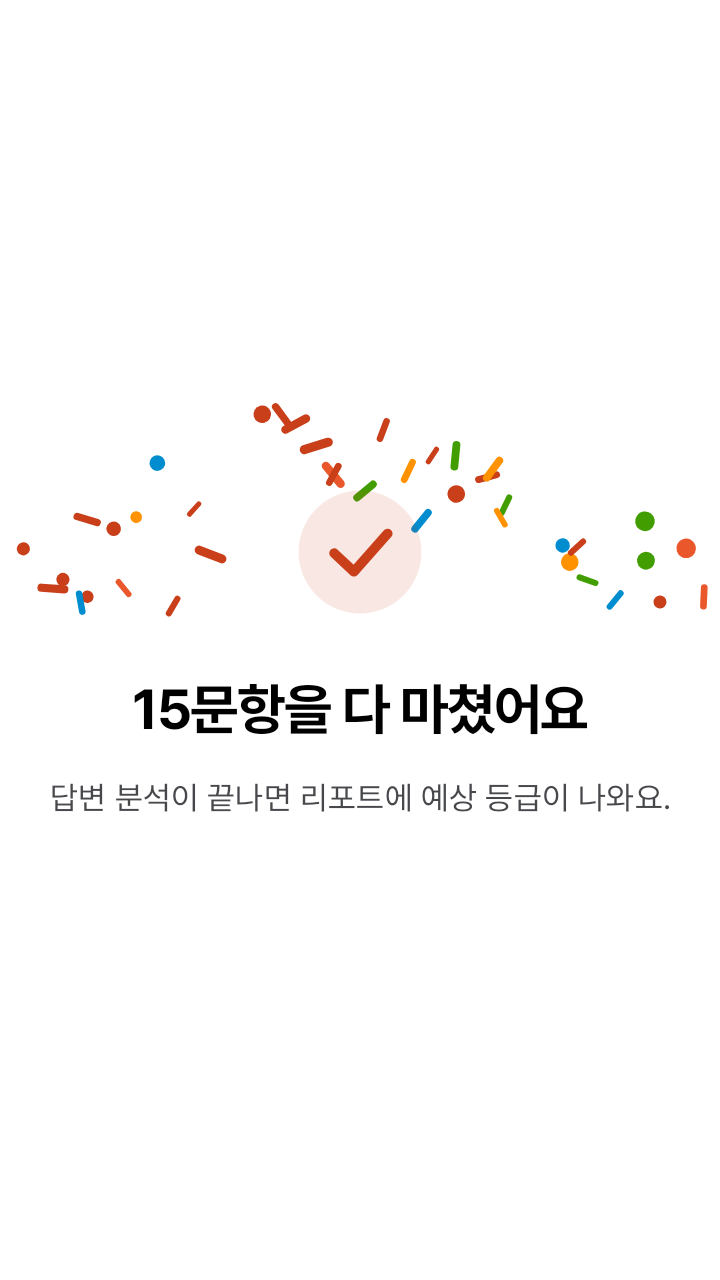
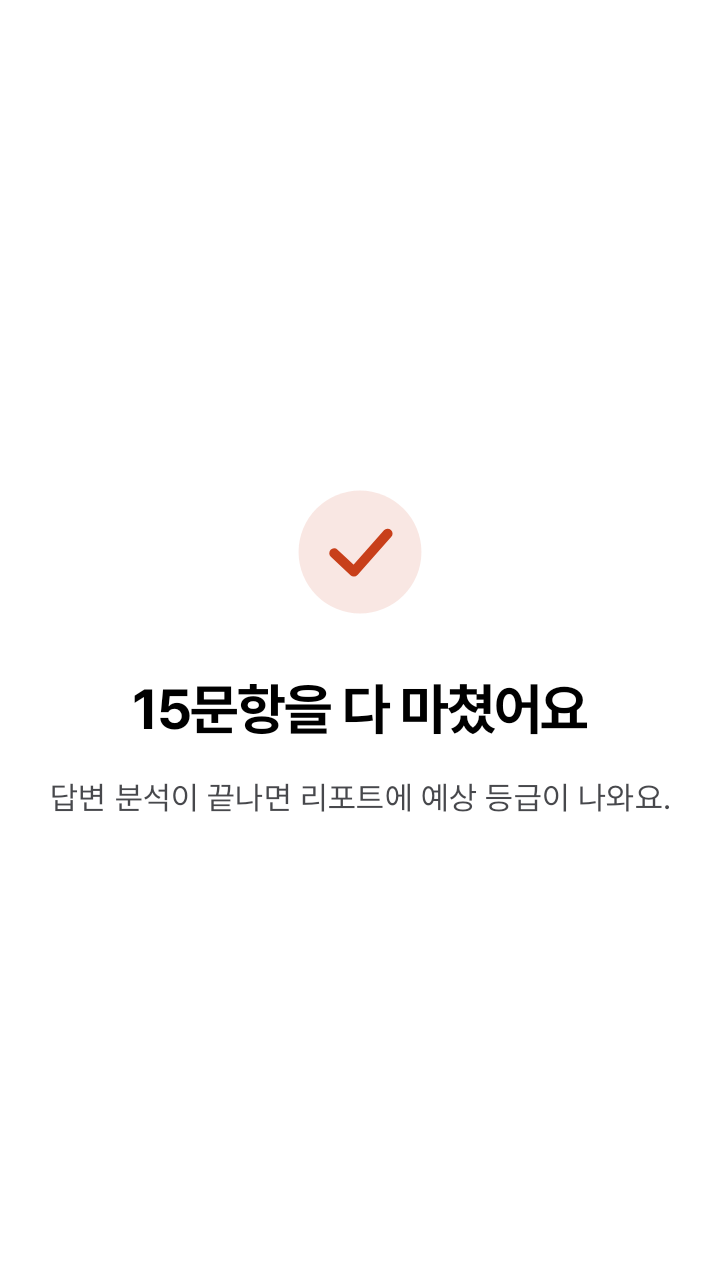
[motion-celebrate] 동작 줄이기면 축하 조각을 그리지 않고, 목록에 새로 들어온 줄만 나타나게 했다 (#158)
축하 끝 장면은 빈 영역이라 동작 줄이기에서 퍼진 장면으로 멈추면 등급 눈금과 점수를 덮은 채 남았다. 진동만 낸다.
축하 기준 이미지가 터지는 중 장면인 이유를 ui-quality 2절 스크린샷 규칙의 예외로 적었다.

diff --git a/ui/design/src/androidHostTest/kotlin/io/github/nosorae/aiopic/ui/design/MotionTest.kt b/ui/design/src/androidHostTest/kotlin/io/github/nosorae/aiopic/ui/design/MotionTest.kt
@@ -13,6 +13,7 @@ import androidx.compose.foundation.layout.padding
 import androidx.compose.foundation.layout.size
 import androidx.compose.foundation.layout.width
 import androidx.compose.foundation.lazy.LazyColumn
+import androidx.compose.foundation.lazy.items
 import androidx.compose.runtime.Composable
 import androidx.compose.runtime.CompositionLocalProvider
 import androidx.compose.runtime.getValue
@@ -254,9 +255,17 @@ class MotionTest {
 
     @Test fun celebrationSmall() = assertBursts(MontageCelebrationSize.Small)
 
-    @Test fun celebrationLarge_reduceMotion() = assertStill { MontageCelebration(MontageCelebrationSize.Large, Modifier.size(148.dp)) }
+    /** 동작 줄이기면 축하는 끝 장면(빈 영역) 그대로다. 라이트, 다크 배경 두 색 말고는 아무것도 그려지지 않는다. */
+    private fun assertCelebrationEmpty(size: MontageCelebrationSize) {
+        assertStill { MontageCelebration(size, Modifier.size(148.dp)) }
+        val shot = frame()
+        val pixels = IntArray(shot.width * shot.height).also { shot.getPixels(it, 0, shot.width, 0, 0, shot.width, shot.height) }
+        assertEquals("동작 줄이기인데 조각이 남는다", 2, pixels.toSet().size)
+    }
 
-    @Test fun celebrationSmall_reduceMotion() = assertStill { MontageCelebration(MontageCelebrationSize.Small, Modifier.size(148.dp)) }
+    @Test fun celebrationLarge_reduceMotion() = assertCelebrationEmpty(MontageCelebrationSize.Large)
+
+    @Test fun celebrationSmall_reduceMotion() = assertCelebrationEmpty(MontageCelebrationSize.Small)
 
     @Test
     fun `큰 축하는 축하 진동, 작은 축하는 성공 진동을 한 번 내고 같은 키로 다시 그려도 내지 않는다`() {
@@ -336,6 +345,31 @@ class MotionTest {
         var struck by mutableStateOf(false)
         show(reduceMotion) { MontageListCell(title = "I went to the park yesterday with my friends.", struck = struck) }
         assertChange({ struck = true }, check)
+    }
+
+    /** 목록에 새로 들어온 줄만 짧게 나타나고 아래 줄은 미끄러져 내려간다. 처음 있던 줄은 등장하지 않는다. */
+    @Test
+    fun listItemAppears() = assertListItems(reduceMotion = false) { start, moving, end ->
+        assertFalse("새 줄이 들어왔는데 그대로다", moving.sameAs(start))
+        assertFalse("새 줄이 움직이지 않고 바로 끝이다", moving.sameAs(end))
+    }
+
+    @Test
+    fun listItemAppears_reduceMotion() = assertListItems(reduceMotion = true) { _, moving, end ->
+        assertTrue("동작 줄이기인데 새 줄이 움직인다", moving.sameAs(end))
+    }
+
+    private fun assertListItems(reduceMotion: Boolean, check: (Bitmap, Bitmap, Bitmap) -> Unit) {
+        var rows by mutableStateOf(listOf("2회차", "1회차"))
+        show(reduceMotion) {
+            LazyColumn(Modifier.height(180.dp)) {
+                items(rows, key = { it }) { MontageListCell(title = it, modifier = montageItemMotion()) }
+            }
+        }
+        val first = frame()
+        settle()
+        assertTrue("처음 있던 줄이 등장한다", first.sameAs(frame()))
+        assertChange({ rows = listOf("3회차") + rows }, check)
     }
 
     /** 듣기에서 답하기로 넘어간다. 피드백 단계까지 셋을 보인다. */

diff --git a/ui/design/src/commonMain/kotlin/io/github/nosorae/aiopic/ui/design/MontageCelebration.kt b/ui/design/src/commonMain/kotlin/io/github/nosorae/aiopic/ui/design/MontageCelebration.kt
@@ -24,7 +24,7 @@ enum class MontageCelebrationSize { Large, Small }
  * 축하할 일이 실제로 생겼을 때 한 번 터지는 조각. 크기는 [modifier] 로 정한 영역이고 조각은 그 가운데에서 터진다.
  * 큰 축하는 목소리 띠 같은 짧은 막대와 점 40개가 위로 터졌다가 떨어지며 사라진다(1.4초). 같은 때 축하 진동을 낸다.
  * 작은 축하는 불꽃 12개가 둥글게 한 번 퍼지고 사라진다(0.7초). 같은 때 성공 진동을 낸다.
- * 동작 줄이기면 조각이 퍼진 한 장면으로 멈춰 있고 진동은 그대로 낸다. 결과는 늘 옆의 체크나 문구가 전한다. 이 그림은 꾸밈이다.
+ * 동작 줄이기면 조각을 그리지 않고 진동만 낸다. 끝 장면이 빈 영역이라서다. 결과는 늘 옆의 체크나 문구가 전한다. 이 그림은 꾸밈이다.
  * [playOnceKey] 를 주면 그 키로 한 번 터진 뒤에는 다시 그려도 아무것도 그리지 않고 진동도 내지 않는다. 키에는 무엇의 축하인지를 넣는다.
  * [delayMillis] 뒤에 터진다. 다른 움직임(등급 구슬, 체크 그리기)이 멈춘 뒤에 터지게 할 때 쓴다.
  */
@@ -37,14 +37,14 @@ fun MontageCelebration(kind: MontageCelebrationSize, modifier: Modifier = Modifi
     val reduceMotion = MontageMotion.reduceMotion
     val large = kind == MontageCelebrationSize.Large
     val spec = MontageMotion.spec<Float>(if (large) LARGE_MILLIS else SMALL_MILLIS)
-    // 동작 줄이기면 조각이 가장 넓게 퍼진 때 멈춘다. 처음부터 끝 장면이면 아무것도 안 보여서다.
-    val progress = remember { Animatable(if (reduceMotion) STILL_AT else 0f) }
+    val progress = remember { Animatable(0f) }
     LaunchedEffect(Unit) {
         playOnceKey?.let(played::add)
         delay(delayMillis.toLong())
         haptics.play(if (large) HapticEffect.Celebrate else HapticEffect.Success)
         if (!reduceMotion) progress.animateTo(1f, spec)
     }
+    if (reduceMotion) return
     val palette = listOf(colors.foregroundBrandPrimary, colors.brandDecoration, colors.foregroundCautionaryPrimary, colors.foregroundAccentLightblue, colors.foregroundAccentLime)
     val pieces = remember(large) { if (large) confetti() else sparks() }
     Canvas(modifier) {
@@ -104,6 +104,5 @@ private fun sparks(): List<Piece> = List(12) { i ->
 
 private const val LARGE_MILLIS = 1_400
 private const val SMALL_MILLIS = 700
-private const val STILL_AT = 0.35f
 private const val SEED = 158
 private const val GRAVITY = 2.4f

diff --git a/ui/feature-home/src/commonMain/kotlin/io/github/nosorae/aiopic/ui/featurehome/HomeScreen.kt b/ui/feature-home/src/commonMain/kotlin/io/github/nosorae/aiopic/ui/featurehome/HomeScreen.kt
@@ -8,7 +8,11 @@ import androidx.compose.foundation.lazy.LazyColumn
 import androidx.compose.foundation.lazy.items
 import androidx.compose.material3.Text
 import androidx.compose.runtime.Composable
+import androidx.compose.runtime.LaunchedEffect
 import androidx.compose.runtime.getValue
+import androidx.compose.runtime.mutableStateOf
+import androidx.compose.runtime.remember
+import androidx.compose.runtime.setValue
 import androidx.compose.ui.Modifier
 import androidx.compose.ui.platform.testTag
 import androidx.compose.ui.tooling.preview.Preview
@@ -22,6 +26,7 @@ import io.github.nosorae.aiopic.ui.design.MontageSpacing
 import io.github.nosorae.aiopic.ui.design.MontageStepTrail
 import io.github.nosorae.aiopic.ui.design.MontageTheme
 import io.github.nosorae.aiopic.ui.design.MontageTopBar
+import io.github.nosorae.aiopic.ui.design.montageItemMotion
 import org.jetbrains.compose.resources.stringResource
 
 /**
@@ -50,6 +55,10 @@ fun HomeScreen(
     modifier: Modifier = Modifier,
 ) {
     val gutter = MontageSpacing.spacing20
+    // 불러온 지난 회차가 처음 채워질 때는 새 줄로 보지 않는다. 그 뒤에 들어온 회차(방금 끝낸 시험)만 나타난다.
+    val loaded = state.pastSessions != null
+    var appear by remember { mutableStateOf(false) }
+    LaunchedEffect(loaded) { if (loaded) appear = true }
     MontageScreen(modifier = modifier, topBar = { MontageTopBar(title = stringResource(Res.string.home_title)) }) {
         LazyColumn(Modifier.fillMaxWidth()) {
             item {
@@ -107,6 +116,7 @@ fun HomeScreen(
                     caption = if (session.timeUp) "$grade · ${stringResource(Res.string.home_time_up)}" else grade,
                     chevron = true,
                     onClick = { onSessionClick(session.id) },
+                    modifier = montageItemMotion(appear),
                 )
             }
         }

diff --git a/ui/feature-history/src/commonMain/kotlin/io/github/nosorae/aiopic/ui/featurehistory/HistoryScreen.kt b/ui/feature-history/src/commonMain/kotlin/io/github/nosorae/aiopic/ui/featurehistory/HistoryScreen.kt
@@ -26,6 +26,7 @@ import io.github.nosorae.aiopic.ui.design.MontageScreen
 import io.github.nosorae.aiopic.ui.design.MontageSpacing
 import io.github.nosorae.aiopic.ui.design.MontageTheme
 import io.github.nosorae.aiopic.ui.design.MontageTopBar
+import io.github.nosorae.aiopic.ui.design.montageItemMotion
 import org.jetbrains.compose.resources.stringResource
 
 @Composable
@@ -65,6 +66,7 @@ fun HistoryScreen(state: HistoryUiState, onOpenSession: (sessionId: String) -> U
                         },
                         chevron = true,
                         onClick = { onOpenSession(row.session.id) },
+                        modifier = montageItemMotion(),
                     ) {
                         val grade = row.session.grade
                         Text(
@@ -85,7 +87,7 @@ fun HistoryScreen(state: HistoryUiState, onOpenSession: (sessionId: String) -> U
                     }
                 }
                 items(state.weaknesses, key = { it.typeName }) { weakness ->
-                    MontageListCell(title = weakness.typeName) {
+                    MontageListCell(title = weakness.typeName, modifier = montageItemMotion()) {
                         MontageProgressBar(weakness.score / 100f, Modifier.width(96.dp).height(4.dp).align(Alignment.CenterVertically))
                         Text(
                             text = stringResource(Res.string.history_score, weakness.score),

diff --git a/ui/design/src/commonMain/kotlin/io/github/nosorae/aiopic/ui/design/MontageItemMotion.kt b/ui/design/src/commonMain/kotlin/io/github/nosorae/aiopic/ui/design/MontageItemMotion.kt
@@ -1,0 +1,17 @@
+package io.github.nosorae.aiopic.ui.design
+
+import androidx.compose.foundation.lazy.LazyItemScope
+import androidx.compose.runtime.Composable
+import androidx.compose.ui.Modifier
+
+/**
+ * 목록 한 줄의 움직임. 화면을 보는 동안 새로 들어온 줄만 짧게(250ms) 나타나고, 밀려난 줄은 새 위치로 미끄러진다.
+ * 목록이 처음 그려질 때 이미 있던 줄은 움직이지 않는다. 탭을 오가거나 화면을 다시 열 때 목록 전체가 다시 등장하면 무엇이 새로 왔는지 안 보여서다.
+ * 불러오기 전 빈 목록이 처음 채워질 때처럼 새 줄로 보면 안 되는 때는 [appear] 를 false 로 준다. 동작 줄이기면 바로 끝 장면이다.
+ */
+@Composable
+fun LazyItemScope.montageItemMotion(appear: Boolean = true): Modifier = Modifier.animateItem(
+    fadeInSpec = if (appear) MontageMotion.spec() else null,
+    placementSpec = MontageMotion.spec(),
+    fadeOutSpec = null,
+)
